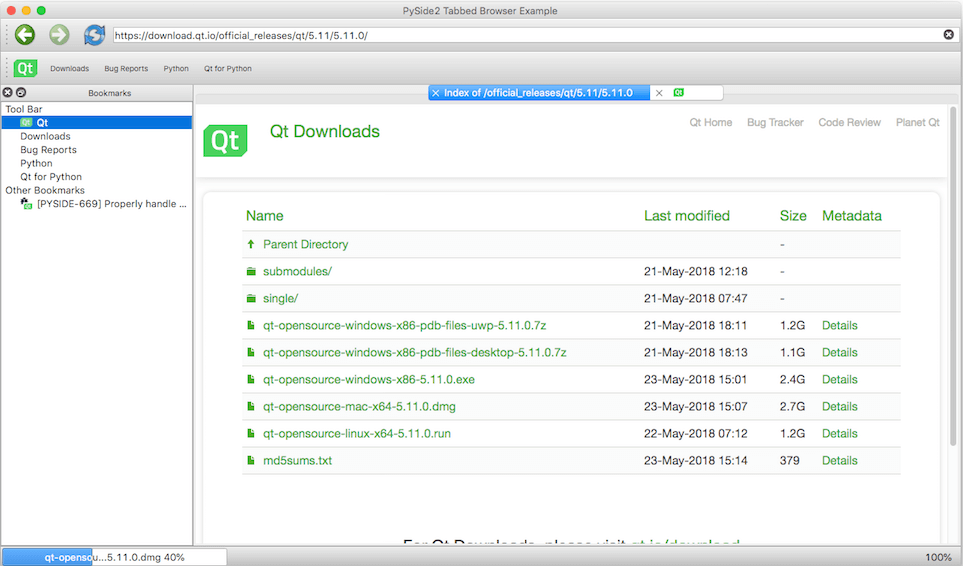
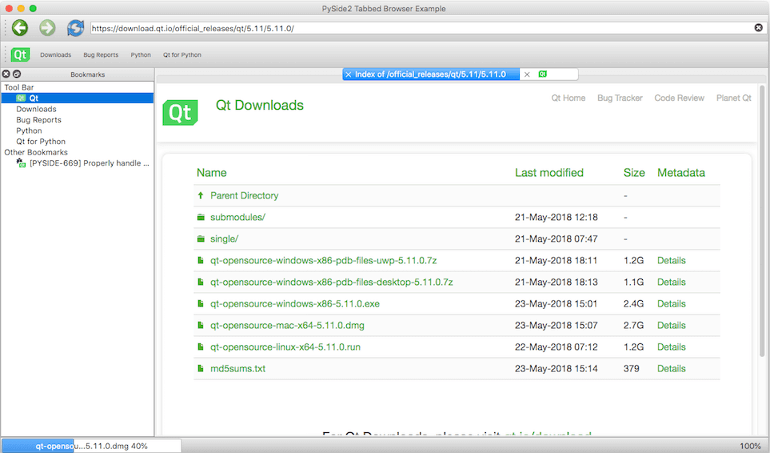
Doc: Fix typos and minor edits
In addition, scaled down the app screenshot.

diff --git a/examples/webenginewidgets/tabbedbrowser/main.py b/examples/webenginewidgets/tabbedbrowser/main.py
@@ -69,7 +69,7 @@ def create_main_window():
     return main_win
 
 def create_main_window_with_browser():
-    """Creates a MainWindow with a tab that loads the www.qt.io webpage."""
+    """Creates a MainWindow with a BrowserTabWidget."""
     main_win = create_main_window()
     return main_win.add_browser_tab()
 

diff --git a/sources/pyside2/doc/tutorials/examples/tabbedbrowser.rst b/sources/pyside2/doc/tutorials/examples/tabbedbrowser.rst
@@ -19,9 +19,9 @@ them a little better.
 BookmarkWidget or :code:`bookmarkwidget.py`
 ===========================================
 
-This is a widget that docks to the left of the main window by default. It inherits QTreeView and
+This widget docks to the left of the main window by default. It inherits QTreeView and
 loads a default set of bookmarks using a QStandardItemModel. The model is populated at startup
-for a JSON file, which is updated when you add or remove bookmarks from the tree view.
+from a JSON file, which is updated when you add or remove bookmarks from the tree view.
 
 .. automodule:: bookmarkwidget
    :members:
@@ -29,7 +29,7 @@ for a JSON file, which is updated when you add or remove bookmarks from the tree
 DownloadWidget or :code:`downloadwidget.py`
 =============================================
 
-This is a widget that tracks progress of the download item. It inherits QProgressBar to display
+The widget tracks progress of the download item. It inherits QProgressBar to display
 progress of the QWebEngineDownloadItem instance, and offers a context-menu with actions such as Launch,
 Show in folder, Cancel, and Remove.
 
@@ -39,7 +39,7 @@ Show in folder, Cancel, and Remove.
 BrowserTabWidget or :code:`browsertabwidget.py`
 ===============================================
 
-This is a widget that includes a QWebEngineView to enable viewing web pages. It docks to the right
+The widget includes a QWebEngineView to enable viewing web content. It docks to the right
 of BookmarkWidget in the main window.
 
 .. automodule:: browsertabwidget
